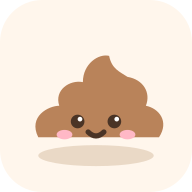
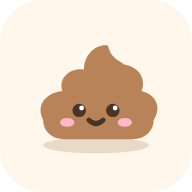
v1.8.0：新的 App 圖示，奶茶色底、便便放大置中
Claude-Session: https://claude.ai/code/session_01LhXDp3Mxayjkmk8M3QYk1p

Changed region(s): [[0.1562, 0.2188, 0.875, 0.875]]

diff --git a/index.html b/index.html
@@ -1352,8 +1352,9 @@ function makeDemo(){
 }
 
 /* ================= 版本 ================= */
-var APP_VERSION="1.7.1";
+var APP_VERSION="1.8.0";
 var CHANGELOG=[
+  ["1.8.0","新的 App 圖示：奶茶色底、便便放大置中"],
   ["1.7.1","吉祥物長出來的手腳改成細黑色線條"],
   ["1.7.0","標題下方的空白縮小；吉祥物變成會依實際時間作息的小生物：白天會吃東西、午後打盹，晚上走到最右邊睡覺（還會飄 Z），天亮再伸懶腰回家。也會跳上標題頂端散步、穿過標題、打滾、追蝴蝶"],
   ["1.6.0","標題列的小吉祥物活起來了：會眨眼、跳舞、長出小腳走路、頂標題、把標題抬起來搬走，表情也會跟著變；點牠也會有反應"],

diff --git a/sw.js b/sw.js
@@ -1,5 +1,5 @@
 // 嗯嗯日記：離線快取（網路優先，失敗時用快取）
-const CACHE = "poodiary-v1.7.1"; // 版本號要跟 index.html 的 APP_VERSION 一致
+const CACHE = "poodiary-v1.8.0"; // 版本號要跟 index.html 的 APP_VERSION 一致
 const FILES = ["./", "./index.html", "./manifest.webmanifest", "./icon.svg", "./icon-180.png", "./icon-192.png", "./icon-512.png", "./icon-maskable-512.png"];
 
 self.addEventListener("install", (e) => {

diff --git a/README.md b/README.md
@@ -42,6 +42,7 @@ Settings → Pages → Build and deployment → Source 選 **Deploy from a branc
 
 版本號寫在 `index.html` 的 `APP_VERSION`，以及 `sw.js` 的 `CACHE`，改版時兩個要一起改。App 裡在「設定」最下方點版本號，可以看到更新紀錄。
 
+- **v1.8.0**：新的 App 圖示，奶茶色底、便便放大置中
 - **v1.7.1**：吉祥物長出來的手腳改成細黑色線條
 - **v1.7.0**：標題下方空白縮小；吉祥物會依實際時間作息（白天吃東西、午後打盹、晚上走到最右邊睡覺並飄 Z、早上伸懶腰），也會跳上標題頂端散步、穿過標題、打滾、追蝴蝶
 - **v1.6.0**：標題列的小吉祥物活起來了，會眨眼、跳舞、走路、頂標題、搬標題，表情會變化
